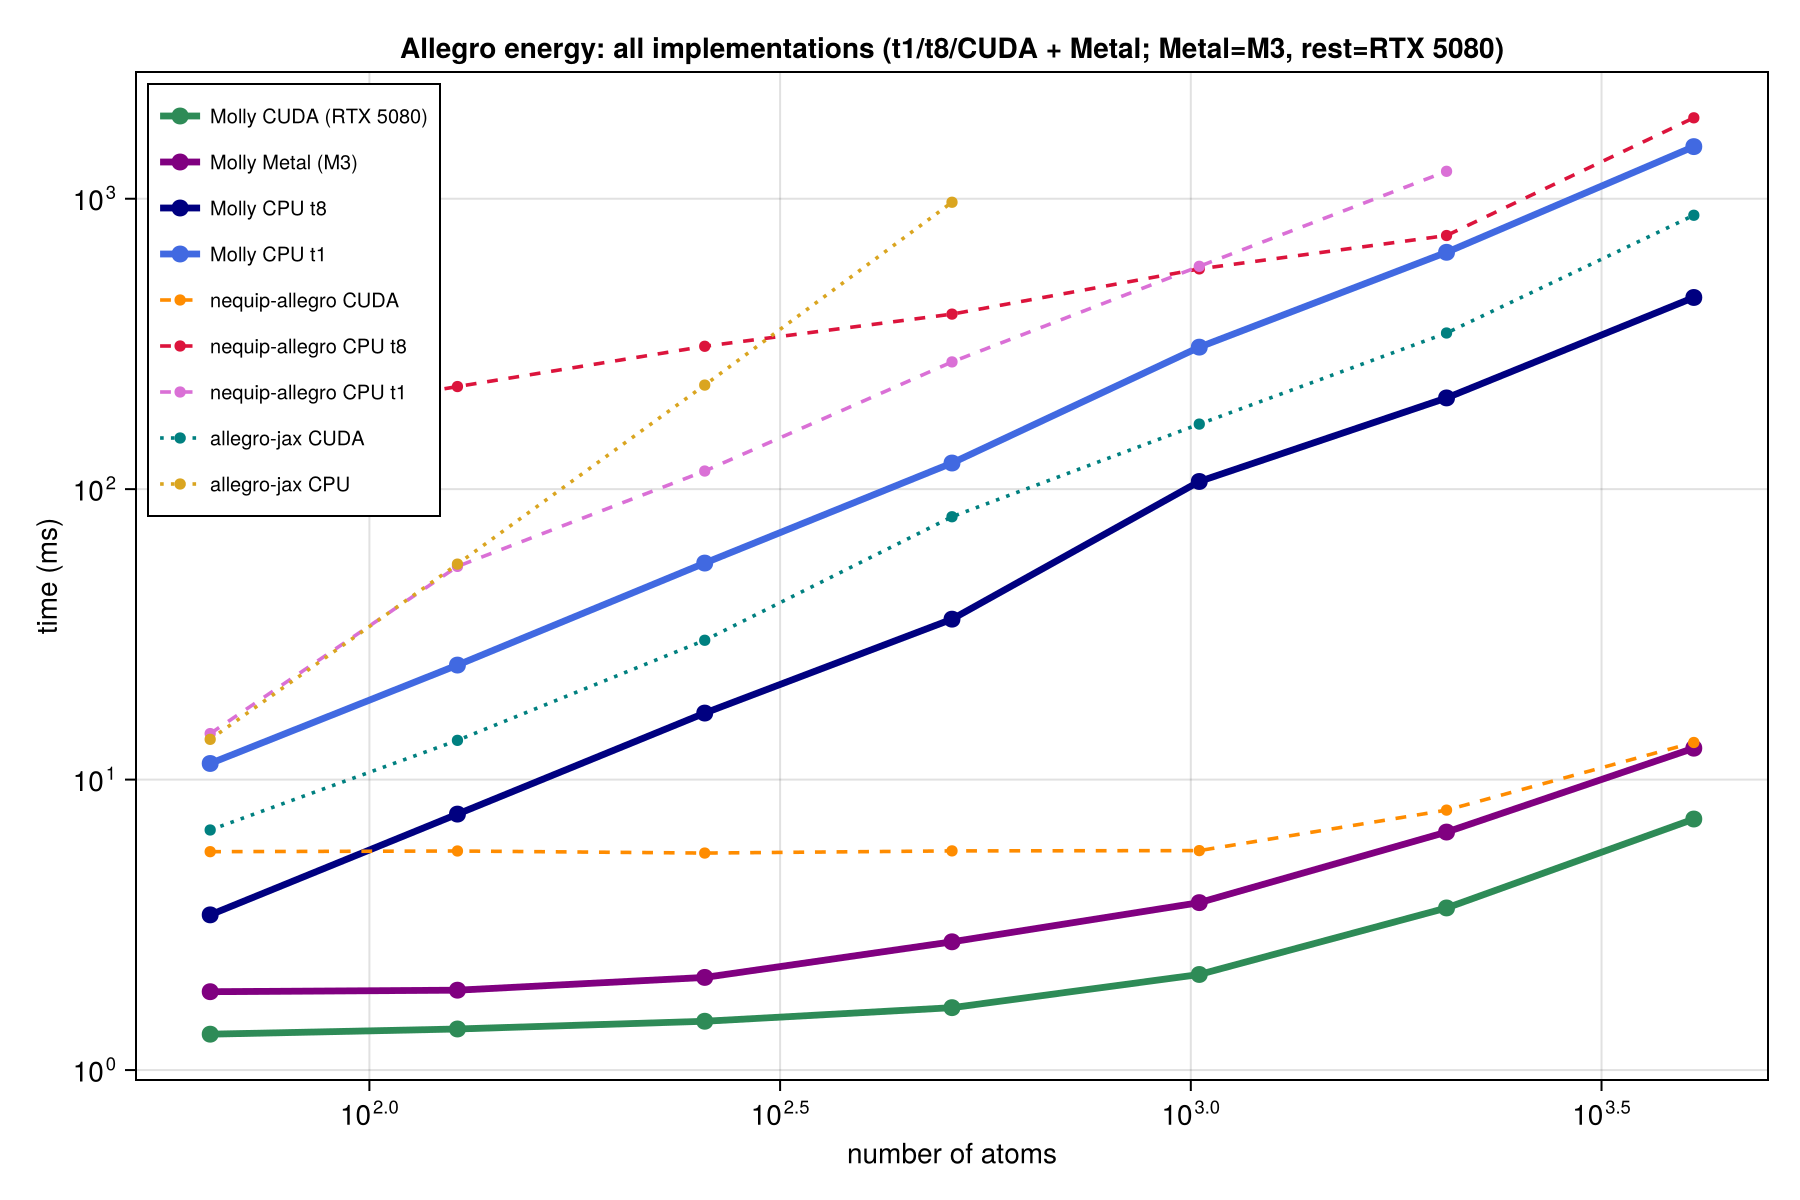
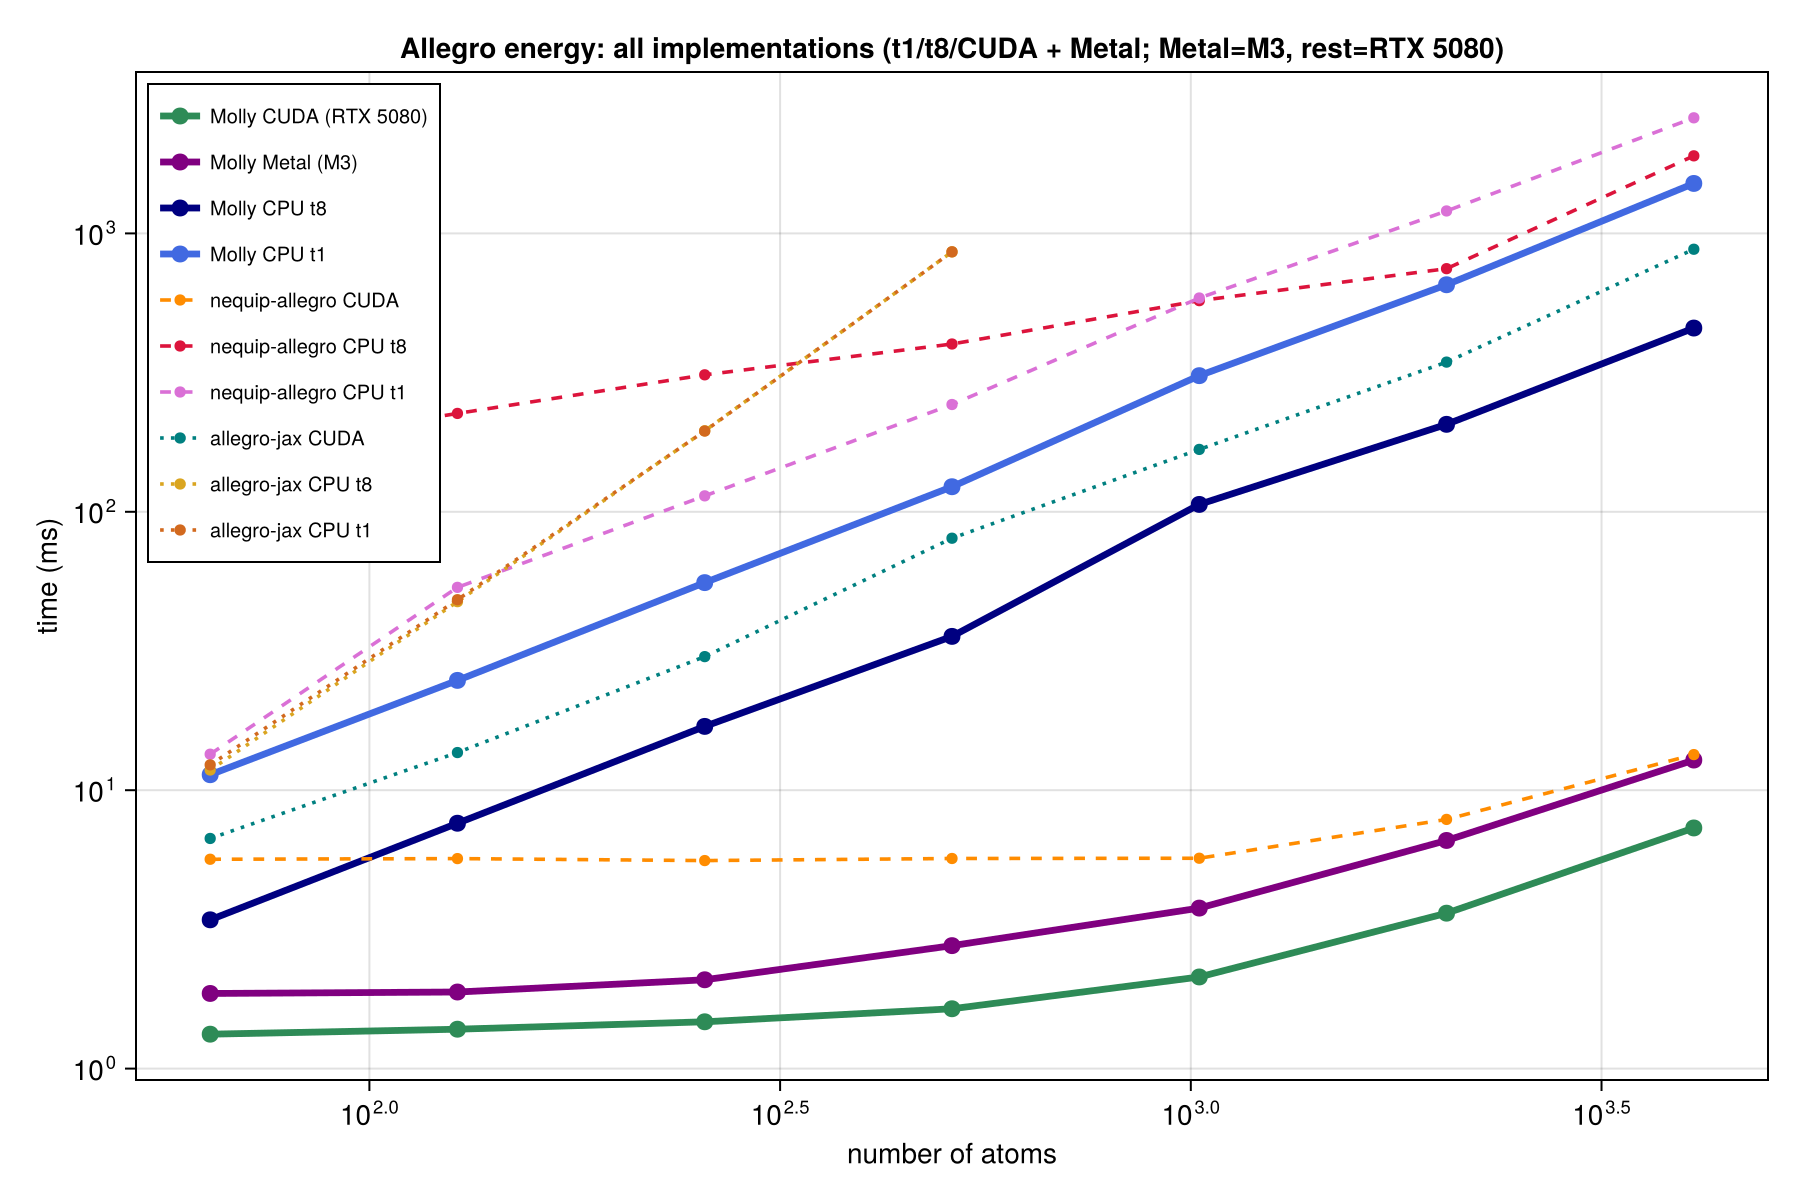
Allegro forces benchmark: full t1/t8/Metal/CUDA head-to-head, 7 points/line
The forces figure now carries all four Molly backends (CUDA, Metal, CPU-t1/t8)
plus every reference line that spans the full 64->4096 range: nequip-allegro
CUDA/CPU-t1/t8 and allegro-jax CUDA. allegro-jax's dense, thread-insensitive CPU
forces cannot reach 4096, so they are omitted to keep every line at the same seven
sizes. Molly's native GPU forces are the fastest path at every size (CUDA ~4-19 ms,
Metal ~6-30 ms, vs nequip CUDA ~15 ms flat). Refreshed nequip CPU-t1 (energy +
forces) out to 4096. Report tables and prose updated for GPU forces.

diff --git a/benchmark/allegro_benchmarks.md b/benchmark/allegro_benchmarks.md
@@ -151,27 +151,33 @@ Every backend is shown over the full range it can reach: Metal is Molly-only (se
 
 | atoms | Molly CUDA | Molly Metal | Molly t8 | Molly t1 | nequip CUDA | nequip t8 | nequip t1 | jax CUDA | jax CPU |
 | :---: | :---: | :---: | :---: | :---: | :---: | :---: | :---: | :---: | :---: |
-| 64   | 1.33 | 1.86  | 3.4   | 11.4   | 5.65  | 162  | 14.4   | 6.7   | 13.8  |
-| 256  | 1.47 | 2.08  | 16.9  | 55.7   | 5.59  | 310  | 115.5  | 30.2  | 228.2 |
-| 512  | 1.64 | 2.76  | 35.7  | 123.0  | 5.68  | 400  | 274.2  | 80.4  | 972.2 |
-| 1024 | 2.13 | 3.77  | 106.3 | 308.3  | 5.70  | 573  | 585.1  | 167.5 | —     |
-| 2048 | 3.62 | 6.60  | 206.1 | 653.8  | 7.85  | 747  | 1242.6 | 344.8 | —     |
-| 4096 | 7.32 | 12.83 | 457.0 | 1511.2 | 13.42 | 1899 | —      | 877.0 | —     |
+| 64   | 1.33 | 1.86  | 3.4   | 11.4   | 5.65  | 162  | 13.5   | 6.7   | 13.8  |
+| 256  | 1.47 | 2.08  | 16.9  | 55.7   | 5.59  | 310  | 114.1  | 30.2  | 228.2 |
+| 512  | 1.64 | 2.76  | 35.7  | 123.0  | 5.68  | 400  | 242.8  | 80.4  | 972.2 |
+| 1024 | 2.13 | 3.77  | 106.3 | 308.3  | 5.70  | 573  | 585.9  | 167.5 | —     |
+| 2048 | 3.62 | 6.60  | 206.1 | 653.8  | 7.85  | 747  | 1203.7 | 344.8 | —     |
+| 4096 | 7.32 | 12.83 | 457.0 | 1511.2 | 13.42 | 1899 | 2600.5 | 877.0 | —     |
 
 (`torch.compile` brings nequip CUDA to ~2.5–5 ms — still slower than Molly; omitted for clarity.
 `allegro-jax` uses dense all-pairs, so it scales O(N²) and is far slower at scale.)
 
 ![Allegro energy: all implementations](images/allegro_benchmark_energy.png)
 
-**Forces, time in ms** (Molly analytic vs nequip autograd vs jax autograd; CPU on the RTX 5080 host):
+**Forces, time in ms** (Molly analytic vs nequip/jax autograd). CPU (t1/t8) and CUDA are the RTX 5080
+host; Molly Metal is the Apple M3. Every line spans all seven sizes; `allegro-jax`'s dense CPU forces
+cannot, so only its CUDA column appears.
 
-| atoms | Molly t8 | nequip CUDA | nequip t8 | nequip t1 | jax CUDA | jax CPU |
-| :---: | :---: | :---: | :---: | :---: | :---: | :---: |
-| 64   | 45.9   | 15.2 | 357  | 34.8   | 6.6   | 19.7   |
-| 256  | 240.0  | 15.3 | 747  | 301.0  | 30.0  | 288.0  |
-| 512  | 558.4  | 15.3 | 1038 | 685.2  | 79.5  | 1069.5 |
-| 1024 | 1280.7 | 15.4 | 1426 | 1322.7 | 169.3 | —      |
-| 2048 | 2914.6 | 17.1 | 2287 | 2798.8 | 346.3 | —      |
+| atoms | Molly CUDA | Molly Metal | Molly t8 | Molly t1 | nequip CUDA | nequip t8 | nequip t1 | jax CUDA |
+| :---: | :---: | :---: | :---: | :---: | :---: | :---: | :---: | :---: |
+| 64   | 3.9  | 6.1  | 34.5   | 34.9   | 15.2 | 357   | 33.0   | 6.6   |
+| 256  | 4.5  | 6.5  | 173.7  | 176.3  | 15.3 | 747   | 297.7  | 30.0  |
+| 512  | 4.9  | 7.0  | 434.3  | 454.1  | 15.3 | 1038  | 633.3  | 79.5  |
+| 1024 | 5.9  | 10.1 | 980.0  | 1025.5 | 15.4 | 1426  | 1330.7 | 169.3 |
+| 2048 | 10.0 | 17.3 | 2246.0 | 2209.5 | 17.1 | 2287  | 2785.1 | 346.3 |
+| 4096 | 19.1 | 30.2 | 5110.3 | 5548.7 | 30.3 | 13131 | 5828.9 | 891.9 |
+
+Molly CUDA forces match the CPU analytic forces to machine precision (max |ΔF| ≈ 2e-14, Float64);
+Metal forces to ≈ 1e-5 (Float32). The CUDA backward is the fastest forces path here at every size.
 
 ![Allegro forces: all implementations](images/allegro_benchmark_force.png)
 
@@ -187,14 +193,19 @@ Reading it:
 - **Metal is a Molly-only capability.** Neither reference runs on Apple GPU: nequip-allegro requires
   `float64` (its per-type energy shift casts to global float64) and MPS is float32-only, and
   `allegro-jax` fails to compile under `jax-metal` (`unknown attribute code`). Molly's native Metal
-  energy runs where **both** references cannot. (The figures show t1/t8/CUDA for every backend that
-  runs, over the full range each can reach — `allegro-jax` is dense O(N²), so its CPU line stops at
-  512 atoms.)
-- **Forces are the honest gap.** Molly's analytic CPU forces track nequip's autograd CPU forces
-  closely (comparable to nequip CPU-t1 across the range; nequip CPU-t8 pulls ahead at large N because
-  Molly's backward is not yet threaded). But both nequip and `allegro-jax` run forces on **CUDA**
-  (nequip ~15 ms flat; jax ~6–350 ms O(N²)) and Molly does not yet — a native GPU backward is the
-  outstanding follow-up.
+  **energy and forces** both run where **both** references cannot. (The energy figure shows t1/t8/CUDA
+  for every backend over the full range each can reach — `allegro-jax` is dense O(N²), so its CPU line
+  stops at 512 atoms; the forces figure holds every line to the same seven sizes, 64→4096.)
+- **Forces now run on the GPU too — and win.** Molly's analytic backward is implemented as a native
+  GPU-portable reverse pass (`compute_allegro_forces_ka`, KernelAbstractions), so forces run on CUDA
+  and Metal, not just CPU. On CUDA the backward reproduces the CPU analytic forces to **machine
+  precision** (max |ΔF| ≈ 2e-14, Float64) and is **flat ~4–18 ms from 64 to 4096 atoms — up to ~220×
+  over Molly CPU-t8** and faster than nequip's CUDA autograd forces (~15 ms flat) at every size shown.
+  Metal forces (Float32, max |ΔF| ≈ 1e-5) run **6–30 ms**, ~25× over CPU-t8. On CPU the analytic
+  backward is single-threaded (t1 ≈ t8), so it trails nequip CPU-t8 at large N — threading the CPU
+  backward is the remaining CPU-side follow-up, but the GPU path is the one that matters for
+  production. (`allegro-jax`'s CPU forces are dense and thread-insensitive, so they cannot reach 4096
+  atoms and are omitted from the forces figure, which holds every line to the same seven sizes.)
 
 ---
 
@@ -220,10 +231,12 @@ Reading it:
 - Weights are the small random reference model used by the test suite, not a trained potential.
   Timings depend on the architecture size (channels `C`, latent width `H`, number of layers,
   `l_max`), not on the weight values, so they are representative for a model of this shape.
-- The **energy** forward runs entirely on the GPU (CUDA + Metal, see the GPU section) — neighbour
-  build, geometry and the layer kernels, with no inter-kernel synchronisation. The **forces**
-  (backward) still run on the CPU (with a host-built neighbour list); a native GPU backward is the
-  next step.
+- Both the **energy** forward and the **forces** backward now run entirely on the GPU (CUDA + Metal)
+  as KernelAbstractions kernels over a device-built neighbour list, with no inter-kernel
+  synchronisation. The forces reverse pass keeps all edge-local adjoints in global scratch (no
+  dynamically sized per-thread buffers), gathers the environment adjoint per atom (no atomics), and
+  uses atomics only for the final Cartesian force scatter. Remaining follow-up: threading the CPU
+  backward and a cell-list neighbour build.
 - A head-to-head against the reference `nequip-allegro` (PyTorch) package — analogous to the
   ANI-vs-TorchANI comparison — is future work: it needs a trained checkpoint (or a matched-config
   build) shared between the two implementations for a fair comparison.
